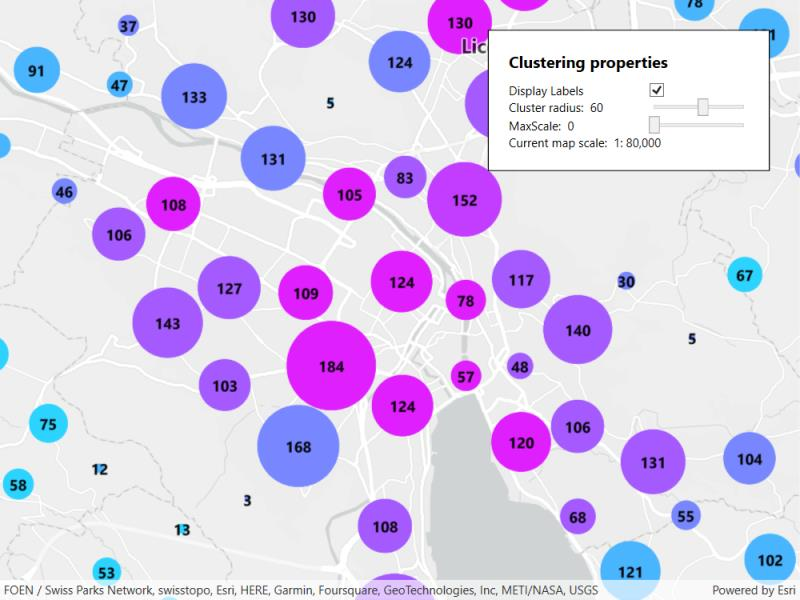
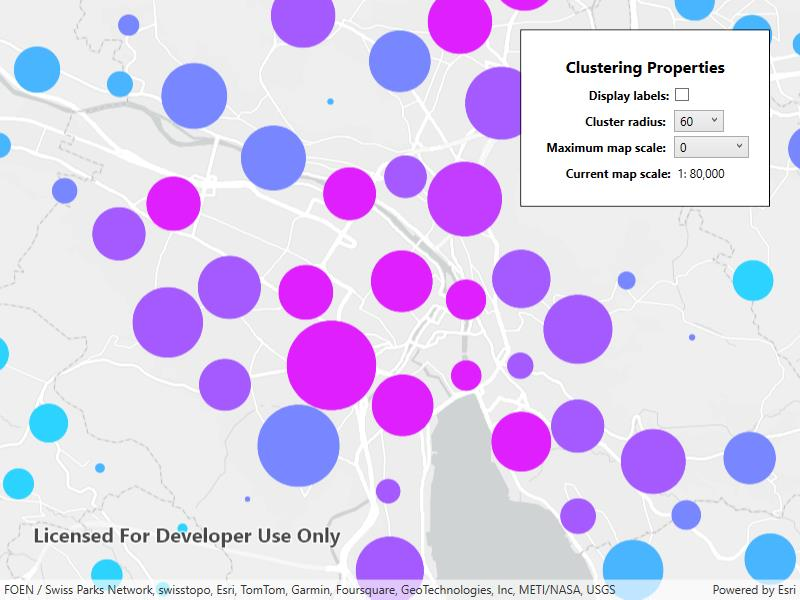
WPF

diff --git a/src/WPF/WPF.Viewer/Samples/Layers/AddClusteringFeatureReductionToAPointFeatureLayer/AddClusteringFeatureReductionToAPointFeatureLayer.xaml b/src/WPF/WPF.Viewer/Samples/Layers/AddClusteringFeatureReductionToAPointFeatureLayer/AddClusteringFeatureReductionToAPointFeatureLayer.xaml
@@ -10,73 +10,81 @@
             <StackPanel Orientation="Vertical">
                 <Button x:Name="DrawClustersButton"
                         Padding="5"
+                        HorizontalAlignment="Center"
                         Click="DrawClustersButton_Clicked"
                         Content="Draw clusters" />
-                <StackPanel x:Name="AddClusteringFeatureReductionToAPointFeatureLayerOptions"
-                            Orientation="Vertical"
-                            Visibility="Collapsed">
-                    <TextBlock Margin="0,0,0,10"
+                <Grid x:Name="ClusteringOptions" Visibility="Collapsed">
+                    <Grid.RowDefinitions>
+                        <RowDefinition Height="auto" />
+                        <RowDefinition Height="auto" />
+                        <RowDefinition Height="auto" />
+                        <RowDefinition Height="auto" />
+                        <RowDefinition Height="auto" />
+                    </Grid.RowDefinitions>
+                    <Grid.ColumnDefinitions>
+                        <ColumnDefinition Width="2*" />
+                        <ColumnDefinition Width="*" />
+                    </Grid.ColumnDefinitions>
+                    <TextBlock Grid.ColumnSpan="2"
+                               Padding="5"
+                               HorizontalAlignment="Center"
                                FontSize="16"
                                FontWeight="Bold"
-                               Text="Clustering properties" />
-                    <Grid>
-                        <Grid.RowDefinitions>
-                            <RowDefinition Height="auto" />
-                            <RowDefinition Height="auto" />
-                            <RowDefinition Height="auto" />
-                            <RowDefinition Height="auto" />
-                        </Grid.RowDefinitions>
-                        <Grid.ColumnDefinitions>
-                            <ColumnDefinition Width="140" />
-                            <ColumnDefinition Width="100" />
-                        </Grid.ColumnDefinitions>
-                        <TextBlock Grid.Row="0"
-                                   Grid.Column="0"
-                                   VerticalAlignment="Center"
-                                   Text="Display Labels" />
-                        <CheckBox x:Name="DisplayLabelsCheckBox"
-                                  Grid.Row="0"
-                                  Grid.Column="1"
-                                  VerticalAlignment="Center"
-                                  Checked="DisplayLabelsCheckBox_Checked"
-                                  IsChecked="false"
-                                  Unchecked="DisplayLabelsCheckBox_Checked" />
-                        <TextBlock Grid.Row="1"
-                                   Grid.Column="0"
-                                   VerticalAlignment="Center">
-                            <Run Text="Cluster radius: " />
-                            <Run Text="{Binding ElementName=ClusterRadiusSlider, Path=Value, Mode=OneWay, StringFormat=n0}" />
-                        </TextBlock>
-                        <Slider x:Name="ClusterRadiusSlider"
-                                Grid.Row="1"
-                                Grid.Column="1"
-                                VerticalAlignment="Center"
-                                Maximum="85"
-                                Minimum="30"
-                                ValueChanged="UpdateClusteringProperties" />
-                        <TextBlock Grid.Row="2"
-                                   Grid.Column="0"
-                                   VerticalAlignment="Center">
-                            <Run Text="MaxScale: " />
-                            <Run Text="{Binding ElementName=MaxScaleSlider, Path=Value, Mode=OneWay, StringFormat=n0}" />
-                        </TextBlock>
-                        <Slider x:Name="MaxScaleSlider"
-                                Grid.Row="2"
-                                Grid.Column="1"
-                                VerticalAlignment="Center"
-                                Maximum="150000"
-                                Minimum="0"
-                                ValueChanged="UpdateClusteringProperties" />
-                        <TextBlock Grid.Row="3"
-                                   Grid.Column="0"
-                                   Grid.ColumnSpan="2"
-                                   VerticalAlignment="Center">
-                            <Run Text="Current map scale: " />
-                            <Run Text="1:" />
-                            <Run Text="{Binding ElementName=MyMapView, Path=MapScale, Mode=OneWay, StringFormat=n0}" />
-                        </TextBlock>
-                    </Grid>
-                </StackPanel>
+                               Text="Clustering Properties" />
+                    <TextBlock Grid.Row="1"
+                               Grid.Column="0"
+                               Padding="5"
+                               HorizontalAlignment="Right"
+                               VerticalAlignment="Center"
+                               FontWeight="Bold"
+                               Text="Display labels:" />
+                    <CheckBox x:Name="DisplayLabelsCheckBox"
+                              Grid.Row="1"
+                              Grid.Column="1"
+                              VerticalAlignment="Center"
+                              Checked="DisplayLabelsCheckBox_Checked"
+                              IsChecked="false"
+                              Unchecked="DisplayLabelsCheckBox_Checked" />
+                    <TextBlock Grid.Row="2"
+                               Grid.Column="0"
+                               Padding="5"
+                               HorizontalAlignment="Right"
+                               VerticalAlignment="Center">
+                        <Run FontWeight="Bold" Text="Cluster radius:" />
+                        <Run Text="{Binding ElementName=ClusterRadiusSlider, Path=Value, Mode=OneWay, StringFormat=n0}" />
+                    </TextBlock>
+                    <ComboBox x:Name="ClusterRadiusPicker"
+                              Grid.Row="2"
+                              Grid.Column="1"
+                              Width="50"
+                              HorizontalAlignment="Left"
+                              VerticalAlignment="Center"
+                              SelectionChanged="ClusterRadiusPicker_SelectionChanged" />
+                    <TextBlock Grid.Row="3"
+                               Grid.Column="0"
+                               Padding="5"
+                               HorizontalAlignment="Right"
+                               VerticalAlignment="Center">
+                        <Run FontWeight="Bold" Text="Maximum map scale:" />
+                        <Run Text="{Binding ElementName=MaxScaleSlider, Path=Value, Mode=OneWay, StringFormat=n0}" />
+                    </TextBlock>
+                    <ComboBox x:Name="MaxScalePicker"
+                              Grid.Row="3"
+                              Grid.Column="1"
+                              Width="75"
+                              VerticalAlignment="Center"
+                              SelectionChanged="MaxScalePicker_SelectionChanged" />
+                    <TextBlock Grid.Row="4"
+                               Grid.Column="0"
+                               Grid.ColumnSpan="2"
+                               Padding="5"
+                               HorizontalAlignment="Center"
+                               VerticalAlignment="Center">
+                        <Run FontWeight="Bold" Text="Current map scale: " />
+                        <Run Text="1:" />
+                        <Run Text="{Binding ElementName=MyMapView, Path=MapScale, Mode=OneWay, StringFormat=n0}" />
+                    </TextBlock>
+                </Grid>
             </StackPanel>
         </Border>
         <Grid x:Name="PopupBackground"

diff --git a/src/WPF/WPF.Viewer/Samples/Layers/AddClusteringFeatureReductionToAPointFeatureLayer/AddClusteringFeatureReductionToAPointFeatureLayer.xaml.cs b/src/WPF/WPF.Viewer/Samples/Layers/AddClusteringFeatureReductionToAPointFeatureLayer/AddClusteringFeatureReductionToAPointFeatureLayer.xaml.cs
@@ -105,17 +105,22 @@ namespace ArcGIS.WPF.Samples.AddClusteringFeatureReductionToAPointFeatureLayer
             // Set the feature reduction for the layer.
             _layer.FeatureReduction = _clusteringFeatureReduction;
 
+            // Populate the cluster radius and max scale pickers with default values.
+            ClusterRadiusPicker.ItemsSource = new double[] { 5, 15, 30, 45, 60, 75, 90 };
+            MaxScalePicker.ItemsSource = new double[] { 0, 1000, 5000, 10000, 50000, 100000, 500000 };
+
             // Set initial slider values.
             // Note that the default value for cluster radius is 60.
             // Increasing the cluster radius increases the number of features that are grouped together into a cluster.
-            ClusterRadiusSlider.Value = _clusteringFeatureReduction.Radius;
+            ClusterRadiusPicker.SelectedValue = _clusteringFeatureReduction.Radius;
 
             // Note that the default value for max scale is 0.
             // The max scale value is the maximum scale at which clustering is applied.
-            MaxScaleSlider.Value = _clusteringFeatureReduction.MaxScale;
+            MaxScalePicker.SelectedValue = _clusteringFeatureReduction.MaxScale;
         }
 
         #region EventHandlers
+
         private void DisplayLabelsCheckBox_Checked(object sender, RoutedEventArgs e)
         {
             if ((bool)(sender as CheckBox).IsChecked)
@@ -132,17 +137,18 @@ namespace ArcGIS.WPF.Samples.AddClusteringFeatureReductionToAPointFeatureLayer
             {
                 _clusteringFeatureReduction.LabelDefinitions.Clear();
             }
-
         }
 
-        private void UpdateClusteringProperties(object sender, RoutedPropertyChangedEventArgs<double> e)
+        private void ClusterRadiusPicker_SelectionChanged(object sender, SelectionChangedEventArgs e)
         {
             if (_layer != null)
-            {
-                // Update the feature reduction's cluster radius and max scale properties.
-                ((ClusteringFeatureReduction)_layer.FeatureReduction).Radius = ClusterRadiusSlider.Value;
-                ((ClusteringFeatureReduction)_layer.FeatureReduction).MaxScale = MaxScaleSlider.Value;
-            }
+                ((ClusteringFeatureReduction)_layer.FeatureReduction).Radius = (double)ClusterRadiusPicker.SelectedItem;
+        }
+
+        private void MaxScalePicker_SelectionChanged(object sender, SelectionChangedEventArgs e)
+        {
+            if (_layer != null)
+                ((ClusteringFeatureReduction)_layer.FeatureReduction).MaxScale = (double)MaxScalePicker.SelectedValue;
         }
 
         private async void MyMapView_GeoViewTapped(object sender, GeoViewInputEventArgs e)
@@ -164,7 +170,7 @@ namespace ArcGIS.WPF.Samples.AddClusteringFeatureReductionToAPointFeatureLayer
             CreateCustomFeatureReduction();
 
             // Show the feature reduction's clustering options.
-            AddClusteringFeatureReductionToAPointFeatureLayerOptions.Visibility = Visibility.Visible;
+            ClusteringOptions.Visibility = Visibility.Visible;
 
             // Add an event handler for tap events on the map view.
             MyMapView.GeoViewTapped += MyMapView_GeoViewTapped;
@@ -179,6 +185,7 @@ namespace ArcGIS.WPF.Samples.AddClusteringFeatureReductionToAPointFeatureLayer
             PopupBackground.Visibility = Visibility.Collapsed;
             PopupViewer.Popup = null;
         }
-        #endregion
+
+        #endregion EventHandlers
     }
 }
